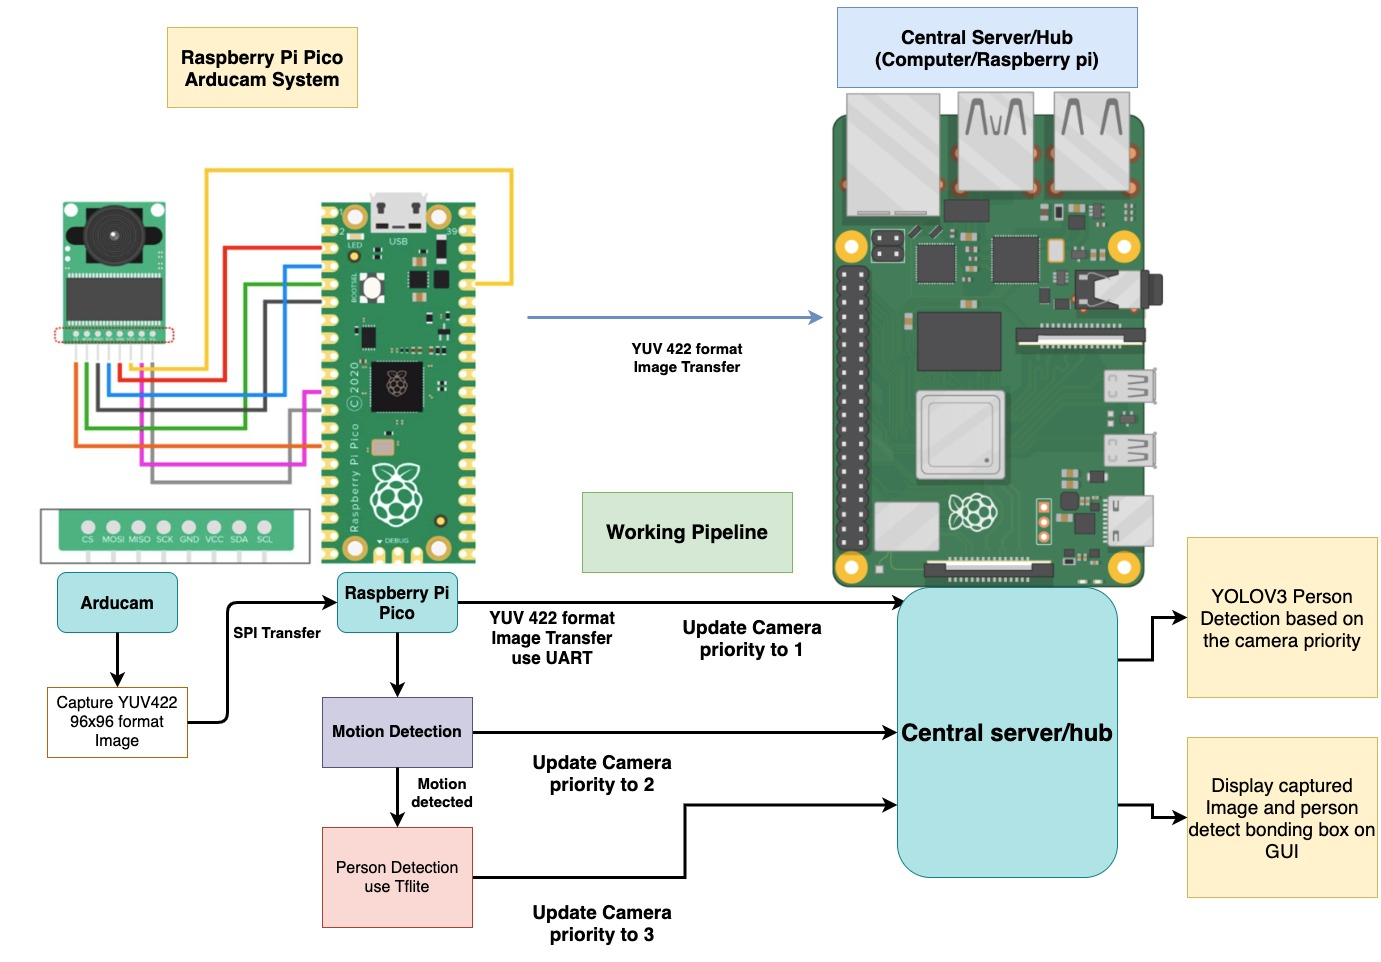
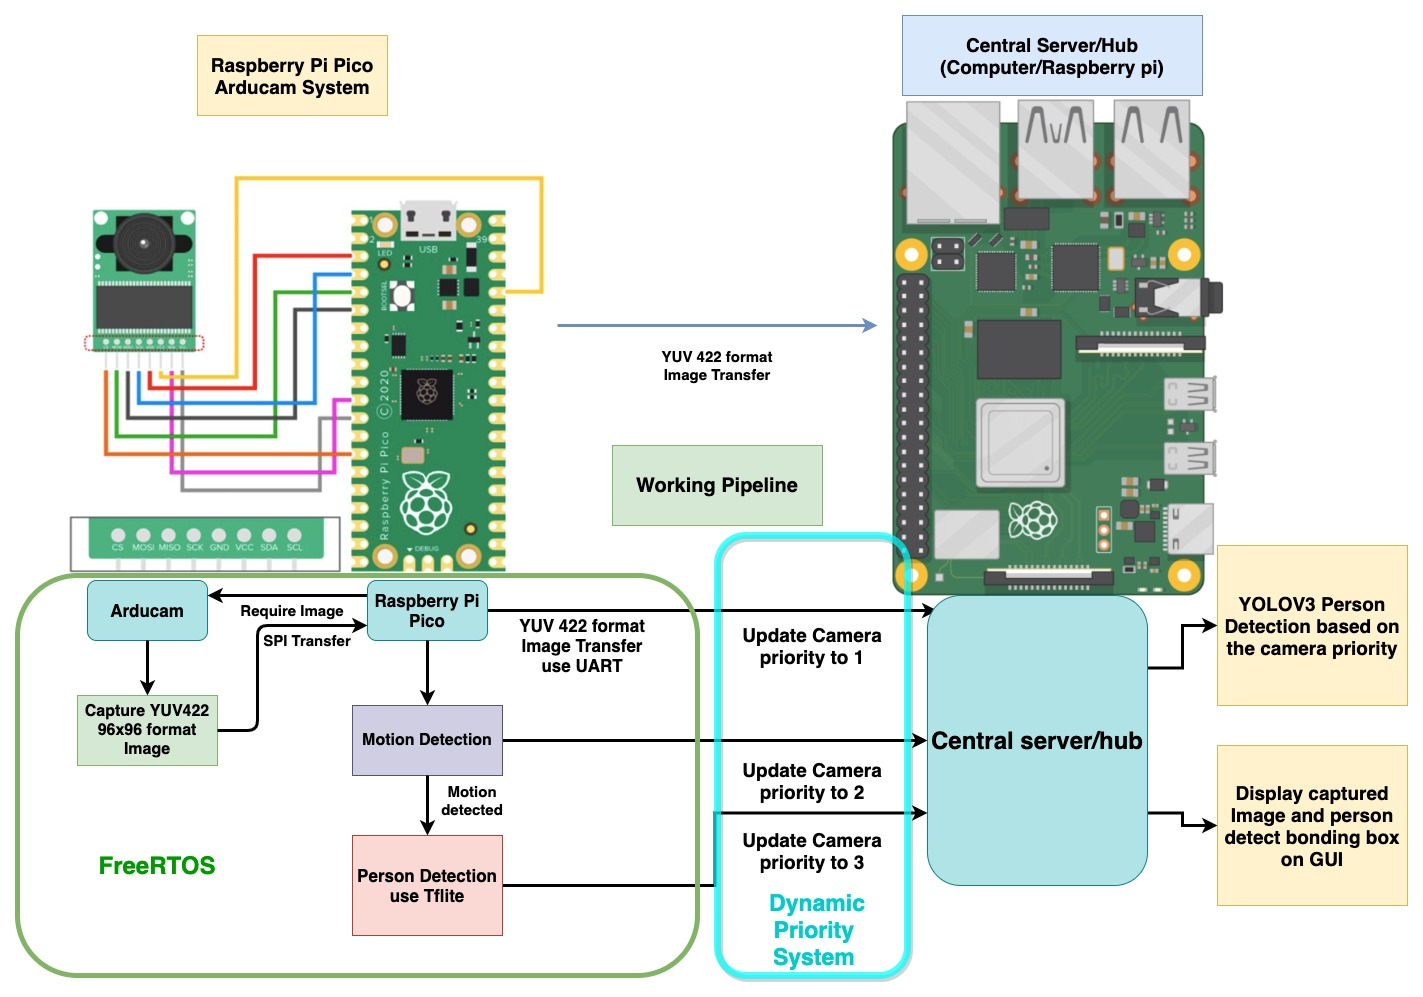
update report

diff --git a/docs/report.md b/docs/report.md
@@ -15,7 +15,7 @@
 # Abstract
 ![hardware](media/hardware.png)
 
-Provide a brief overview of the project objhectives, approach, and results.
+
 
 # 1. Introduction
 With the fast development of machine learning model compression and edge device AI framework, it is practical to deploy machine learning programmes to edge devices, more and more electronic devices are able to become smart devices. One of the most important areas is smart cameras. Smart cameras can be widely used in personal home security, warehouse security or factory assembly line monitoring. Currently, most of the smart cameras in the market use their onboard chip for AI computation. Although those smart cameras have fast WIFI connection and are able to connect to smartphones or computers, their entire computation is limited by their on board microcontroller.  Such design leads to several potential problems. First, most of those cameras can only run simple person detection neural networks due to the limited computational power and ram. Most of the high performance neural network requires hundreds of MB’s to store the model and fast GPU to inference the model which is unlikely to be available on smart camera due to the cost and physical size of the camera.  Second, it’s impractical to update such a smart camera because most of the time the camera module is good enough for many years, but new machine learning algorithms update fast, and would require more computational power in general. Updating such a smart camera for new AI performance would require replacing the entire module. 
@@ -26,27 +26,22 @@ The goal of this project is to design a central server based camera system but m
 
 Challenges of this project include design pipeline for the smart camera system, taks schedule inside the embedded system. How to make the camera transfer image to the central server while performing neural network inference and how to make the smart camera work tightly with the central server are important tasks in this project.The main hardware of this project includes two Raspberry Pi Pico, one is used for the smart camera system and another one is used as a programmer to program and debug the other Pico. One Arducam used to capture images and one MacBook and Raspberry Pi 3B+ used as a central server connected to Raspberry Pi Pico serial port via TTL USB adapter. One the software side, the entire program uses C and C++ with the GNU compiler.  The software build system is CMake, and uses FreeRTOS as the real time operating system. The program also uses neural networks in both the camera module and the central server. In the Pico, the neural network is implemented  using Tensorflow lite, in the central server, the neural network is implemented based on Pytorch. 
 
+The success of the project will be evaluated on the accuracy of the system's person detection. Also, the performance improvement of the system with the central server and RTOS in various ways. 
 
-
-
-
-This section should cover the following items:
-
-* Motivation & Objective: What are you trying to do and why? (plain English without jargon)
-* State of the Art & Its Limitations: How is it done today, and what are the limits of current practice?
-* Novelty & Rationale: What is new in your approach and why do you think it will be successful?
-* Potential Impact: If the project is successful, what difference will it make, both technically and broadly?
-* Challenges: What are the challenges and risks?
-* Requirements for Success: What skills and resources are necessary to perform the project?
-* Metrics of Success: What are metrics by which you would check for success?
 
 # 2. Related Work
+
+The edge AI has been a popular topic for the last few years and seems like it’s becoming an even more important topic in both research and application. Tensorflow is one of the most popular neural network frameworks, and it provides a lite version for  edge devices called Tensorflow lite (TFlite) <cite>[Tflite][1]</cite>. 
+
+Object detection is under fast iteration and improvement recently, most of the success methods rely on neural networks. There are light weight models like Mobilenet <cite>[Howard][2]</cite> that aim to reduce the size and inference time of the neural network model.  Relatively complex but powerful network YOLO <cite>[Redmon][3]</cite> is not only used to detect objects but also perform semantic segmentation.
+
+Although most microcontrollers do not support multi-threading like CPU, there's a real-time operating system (RTOS) that allows task concurrency inside the microcontroller. FreeRTOS is a widely used light weight RTOS that has low overhead <cite>[Tao][4]</cite> in task scheduling and good portability.
 
 # 3. Technical Approach
 ![hardware](media/cam_flowchart.jpg)
 Above graph shows the hardware and the working pipeline of the system. The Arducam and the Raspberry Pi pico can be treated as a smart camera system with limited built-in AI capability and the Raspberry Pi or the computer served as a central server in this project. The Arducam will capture the image in YUV422 format (YUVU) and transfer it to Pico through SPI interface. The Pico will perform motion detection and if it detects motion then persone detection using TFlite will be triggered. All those tasks are scheduled using the Real Time Operating System (RTOS) called FreeRTOS. The details of the implementation will be mentioned in the next section. 
 
-Although I only have one camera module available for this project, the system is actually optimized for **multi-camera** systems. Inspired by the FreeRTOS’s task priority system, I designed a dynamic priority queue system. The priority queue system will continuously update each camera’s priority based on the computational result inside the Pico and the result from the central server. The camera with higher priory will have their data process first in the central server. The implementation detail will be mentioned later in the priority queue system section.
+Although I only have one camera module available for this project, the system is actually optimized for **multi-camera** systems. Inspired by the FreeRTOS’s task priority system, I designed a dynamic priority system. The priority queue system will continuously update each camera’s priority based on the computational result inside the Pico and the result from the central server. The camera with higher priory will have their data process first in the central server. The implementation detail will be mentioned later in the priority system section.
 
 ## 3.1 Raspberry Pi Pico Arducam System
 The purpose of the Pico Arducam system is to first capture the image and transfer it to the central server. After the image is transferred, the Pico will perform motion detection. The implementation of the motion detection is simple yet efficient. A frame difference is computed after every new image captured, this is simply done by applying pixel-wise subtraction between current frame and previou frame. Then instead of applying complex operations like conturor find,I simply find the number of pixels with value above a certain preset threshold. If the number of those pixels are greater than 2 percent of the total pixels in the image, then consider that there is motion between two frames. The reason for such a simple design is because the motion detection will take place after every image capture, so it needs to be fast. In Fact the entire motion detection only takes 2ms in the Pico. 
@@ -64,7 +59,7 @@ As a result the host server now refreshes at 3.1 FPS instead of lower than one c
 ## 3.2 Dynamic Priority System
 Imagine that the smart cameras are used in the warehouse, there are more than 20 of those cameras that keep sending images to the central server and the server needs to process them in real-time. In this project one of the central servers I use is my Macbook pro with Intel's i5 chip. I’m running YOLOV3 on Pytorch with low resolution 128, and it tooks 0.3 second to process one image. It will take 6 second to process one frame from those 20 cameras. Of course, in real applications, we can use GPU and process multiple images in a batch, but my point here is that the central server could have large pressure when running a complex neural network when multiple cameras connect to it. Multiple camera systems are very common nowadays even in home security systems.
 
-If there are multiple cameras connected to the central server, to satisfy all the computation needs, one choice is to make the central server power enough to handle all cameras’ needs. However, such design leads to better hardware in the central server or higher cost for cloud servers. To address this problem I developed a priority queue system. The priority queue system is inspired from the FreeRTOS’s priority task scheduler. The central server will first process images for the camera with higher priority. Below I will introduce how the camra’s priority is classified and decided. 
+If there are multiple cameras connected to the central server, to satisfy all the computation needs, one choice is to make the central server power enough to handle all cameras’ needs. However, such design leads to better hardware in the central server or higher cost for cloud servers. To address this problem I developed a dynamic priority system. The priority system is inspired from the FreeRTOS’s priority task scheduler. The central server will first process images for the camera with higher priority. Below I will introduce how the camra’s priority is classified and decided. 
 
 The camera has 3 priority, the default and the lowest priority is 1. All cameras start with priority 1, if the Pico detects motion, then the camera’s priority changes to 2. If the Pico detects the person, then the camera priority will increase to 3. Each time Pico changes the priority of the camera, it will transmit this information to the host server, so the host server is aware of the priority of the camera. Due to the relatively low accuracy of the Pico system, the Pico can only increase the camera’s priority, not decrease. The central server will process the camera with higher priority, if the host detects the person in the camera’s image, then the camera’s priority increases to 3 if not already. If there’s no person to detect for 1 second, then the camera’s priority decreases to 1. So the host server can both increase and decrease the priority of the camera. Also, to prevent that one camera is not being processed by the central server for a long time due to other cameras’ high priority, if a camera has not been processed for 3 seconds, the central server will increase it’s priority by 1 level.
 
@@ -91,10 +86,39 @@ Second I test the person to detect accuracy on the camera system with and withou
 
 I tested on a 16 mins video, recorded both the person detection result from the Pico board and the result from the central server. I compare them with the ground truth and the result is shown in the table below. 
 
+![result](media/person_detection_result.png)
+
+From the result we can see that the accuracy of person detection increases significantly with the help of the central server. Also with the central server, the system is able to handle harder tasks. In this project, the central server uses YOLOV3 to perform semantic segmentation.  
+
+
+![yolov3](media/YOLOV3.png)
 
 
 
 # 5. Discussion and Conclusions
 
+This project aims to build a smart camera system with edge AI for lightweight tasks and central server/hub for heavy duty neural networks. The introduction of FreeRTOS ensures the image transfer rate from the camera model to the central hub. With the help of a central server, the smart camera system is able to efficiently detect people on the 16 mins test video with 91% precision. Lightweight tasks in smart cameras include motion detection and simple person detection.  Those lightweight tasks adjust the camera’s priority in the central server, give instructions to the central server which camera’s data needs to process first.  This design increases the reliability and efficiency of the smart camera system, allowing the central server to better allocate its resources under high pressure. This system can be easily extended to various tasks such as facial recognition and person action prediction as long as the central server supports those tasks. Commercial products with this design will be easy to upgrade, since the central server can be easy to update, and usually the camera module does not need to update frequently.  Especially, if the central server is a Web server like AWS, it is even more convenient to update. 
+
+The weak point of such design is first the potential security issue. Since all the captured images are transferred to the central server, it is possible that those data leak during the transfer. The possible solution is to simply apply encryption, use OpenSSL during data transfer, and decrypt the data on the central server. Another weak point is that the cost of the system may be higher if there’s only one camera in the system, however, in the case when multiple cameras are needed such as home security system and warehouse security, the cost of the central server can be spreaded. Overall, with the development of cloud server I think this is the future of the smart camera system. 
+
 
 # 6. References
+[1].  Martín Abadi, Ashish Agarwal, Paul Barham, Eugene Brevdo,
+Zhifeng Chen, Craig Citro, Greg S. Corrado, Andy Davis,
+Jeffrey Dean, Matthieu Devin, Sanjay Ghemawat, Ian Goodfellow,
+Andrew Harp, Geoffrey Irving, Michael Isard, Rafal Jozefowicz, Yangqing Jia,
+Lukasz Kaiser, Manjunath Kudlur, Josh Levenberg, Dan Mané, Mike Schuster,
+Rajat Monga, Sherry Moore, Derek Murray, Chris Olah, Jonathon Shlens,
+Benoit Steiner, Ilya Sutskever, Kunal Talwar, Paul Tucker,
+Vincent Vanhoucke, Vijay Vasudevan, Fernanda Viégas,
+Oriol Vinyals, Pete Warden, Martin Wattenberg, Martin Wicke,
+Yuan Yu, and Xiaoqiang Zheng.
+TensorFlow: Large-scale machine learning on heterogeneous systems,
+2015. Software available from tensorflow.org.
+
+[2]. A. G. Howard, M. Zhu, B. Chen, D. Kalenichenko, W. Wang,T. Weyand, M. Andreetto, and H. Adam.   Mobilenets:  Effi-cient convolutional neural networks for mobile vision appli-cations.CoRR, abs/1704.04861, 2017
+
+[3]J. Redmon, S. Divvala, R. Girshick and A. Farhadi, "You Only Look Once: Unified, Real-Time Object Detection," 2016 IEEE Conference on Computer Vision and Pattern Recognition (CVPR), 2016, pp. 779-788, doi: 10.1109/CVPR.2016.91.
+
+[4] X,Tao Performance benchmarking of
+FreeRTOS and its Hardware Abstraction.Technische Universiteit Eindhoven. 11. 2008 
